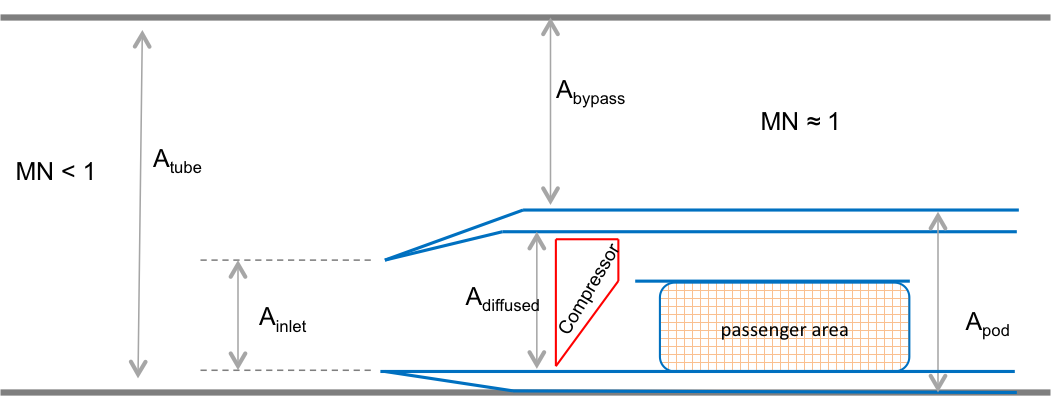
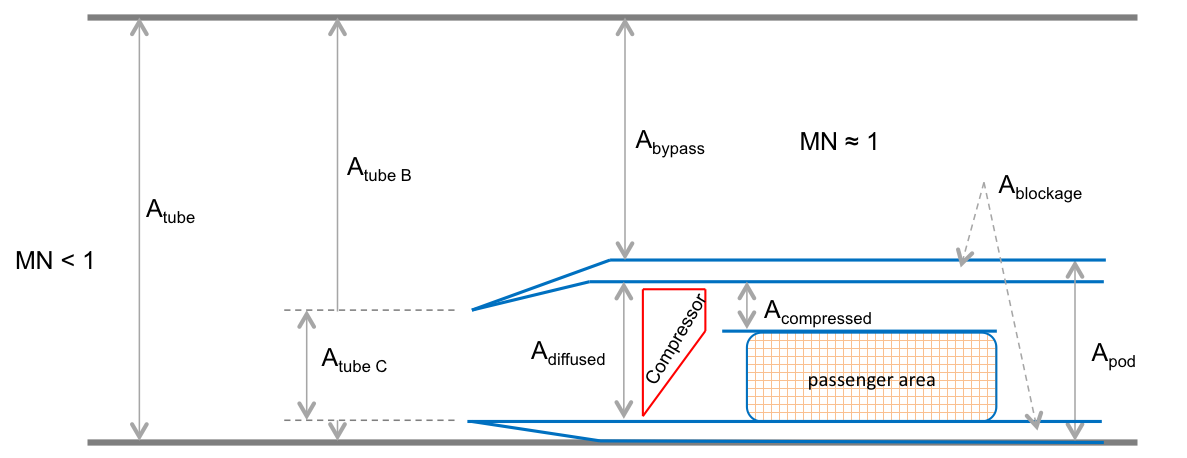
cleaning up images

diff --git a/NASA-TM/hyperloop.tex b/NASA-TM/hyperloop.tex
@@ -190,7 +190,7 @@ in Table \ref{t:hyperbase} .
 
 \begin{figure}[hbtp]
 \centering
-\includegraphics[width=.85\textwidth]{images/podA}
+\includegraphics[width=.85\textwidth]{images/closedCapsule.png}
 \caption{Longitudinal view of a passenger pod with no inlet and no compression system.}
 \label{f:ClosedPod}
 \end{figure}
@@ -241,7 +241,7 @@ which yields a much lower maximum pod speed of about Mach .3-.4 for a pod withou
 
 \begin{figure}[hbtp]
 \centering
-\includegraphics[width=.85\textwidth]{images/podB}
+\includegraphics[width=.85\textwidth]{images/hollowCapsule.png}
 \caption{Longitudinal view of a hollow passenger pod that lets mass flow pass through it.}
 \label{f:hollowPod}
 \end{figure}
@@ -260,7 +260,7 @@ $\frac{A_{bypass}}{A_{tube}}$ and ${M_{pod}}$.
 
 \begin{figure}[hbtp]
 \centering
-\includegraphics[width=0.85\textwidth]{images/podC.png}
+\includegraphics[width=0.85\textwidth]{images/openCapsule.png}
 \caption{Longitudinal view of a hollow passenger pod with a necessary diffuser to restrict the Mach number of the flow into the compressor.}
 \label{f:OpenPod}
 \end{figure}
@@ -275,7 +275,7 @@ system this is now much less restrictive than if the pod is sealed.
 
 Figure \ref{f:machRAD} shows the increase in pod Mach number achievable for the hollow pod compared to the closed pod.
 For a nominal tube diameter of 4 meters, the maximum pod Mach increases from 0.66 to 0.82.
-This increase is dependent on the amount of space taken up by passengers and cargo, which is described in Fig. \ref{f:OpenPod}
+This increase is dependent on the amount of space taken up by the pod outer structure, which is described in Fig. \ref{f:OpenPod}
 as a non-dimensional "blockage factor" equal to $\frac{A_{diffused C}}{A_{pod}}$.
 To a lesser extent, the max speed is also dependent on the compressor entrance Mach number.
 Changing the compressor entrance Mach number by $\pm 0.05$ changes the maximum pod MN by roughly $\pm 0.01$. 

diff --git a/src/hyperloop/cycle/openPod_plot.py b/src/hyperloop/cycle/openPod_plot.py
@@ -56,16 +56,16 @@ p.tick_params(axis='both', which='major', labelsize=15)
 p.ylabel('Tube Diameter (m)', fontsize=18)
 p.xlabel('Pod Mach Number', fontsize=18)
 p.title('Tube Diameter vs Pod MN', fontsize=20)
-p.plot(data6[1],((data6[0]/pi)**0.5)*2, label="BF = 0.9", lw=3)
+p.plot(data6[1],((data6[0]/pi)**0.5)*2, label="BF = 0.9", ls="--", lw=3)
 p.plot(data7[1],((data7[0]/pi)**0.5)*2, label="BF = 0.85", lw=3)
-p.plot(data8[1],((data8[0]/pi)**0.5)*2, label="BF = 0.8", lw=3)
+p.plot(data8[1],((data8[0]/pi)**0.5)*2, label="BF = 0.8", ls=":", lw=3)
 #p.plot(data6b[1],((data6b[0]/pi)**0.5)*2, label="c1mn= 0.7", lw=3)
 #p.plot(data5[1],data5[0]/(100*pi), label="BF = 0.7", lw=3)
 
 p.ylim([0.,10.0])
 p.xlim([0.6,0.92])
 p.legend(loc="best")
-    
+
 #p.gcf().set_size_inches(11,5.5)
 #p.gcf().savefig('test2png.png',dpi=130)
 p.show()

diff --git a/src/hyperloop/battery_plot.py b/src/hyperloop/battery_plot.py
@@ -70,6 +70,9 @@ for i, ax, color in zip(index, axes, colors):
 		ax.set_yticks([0.5+.05, 0.5+(0.055*1)+.05, 0.5+(0.055*2)+.05, 0.5+(0.055*3)+.05, 0.5+(0.055*4)+.05, 0.5+(0.055*5)+.05, 0.5+(0.055*6)+.05, 0.5+(0.055*7)+.05])
     ax.tick_params(axis='y', colors=color)
 axes[0].set_xlabel('Max Pod Mach', fontsize=18)
+fig.text(0.5,0.82,"Power (kW)", color='Red')
+fig.text(0.5,0.37,"Battery (kW-hrs)", color='Green')
+fig.text(0.5,0.2,"Time (hrs)", color='Blue')
 
 #p.tick_params(axis='both', which='major', labelsize=15)
 
